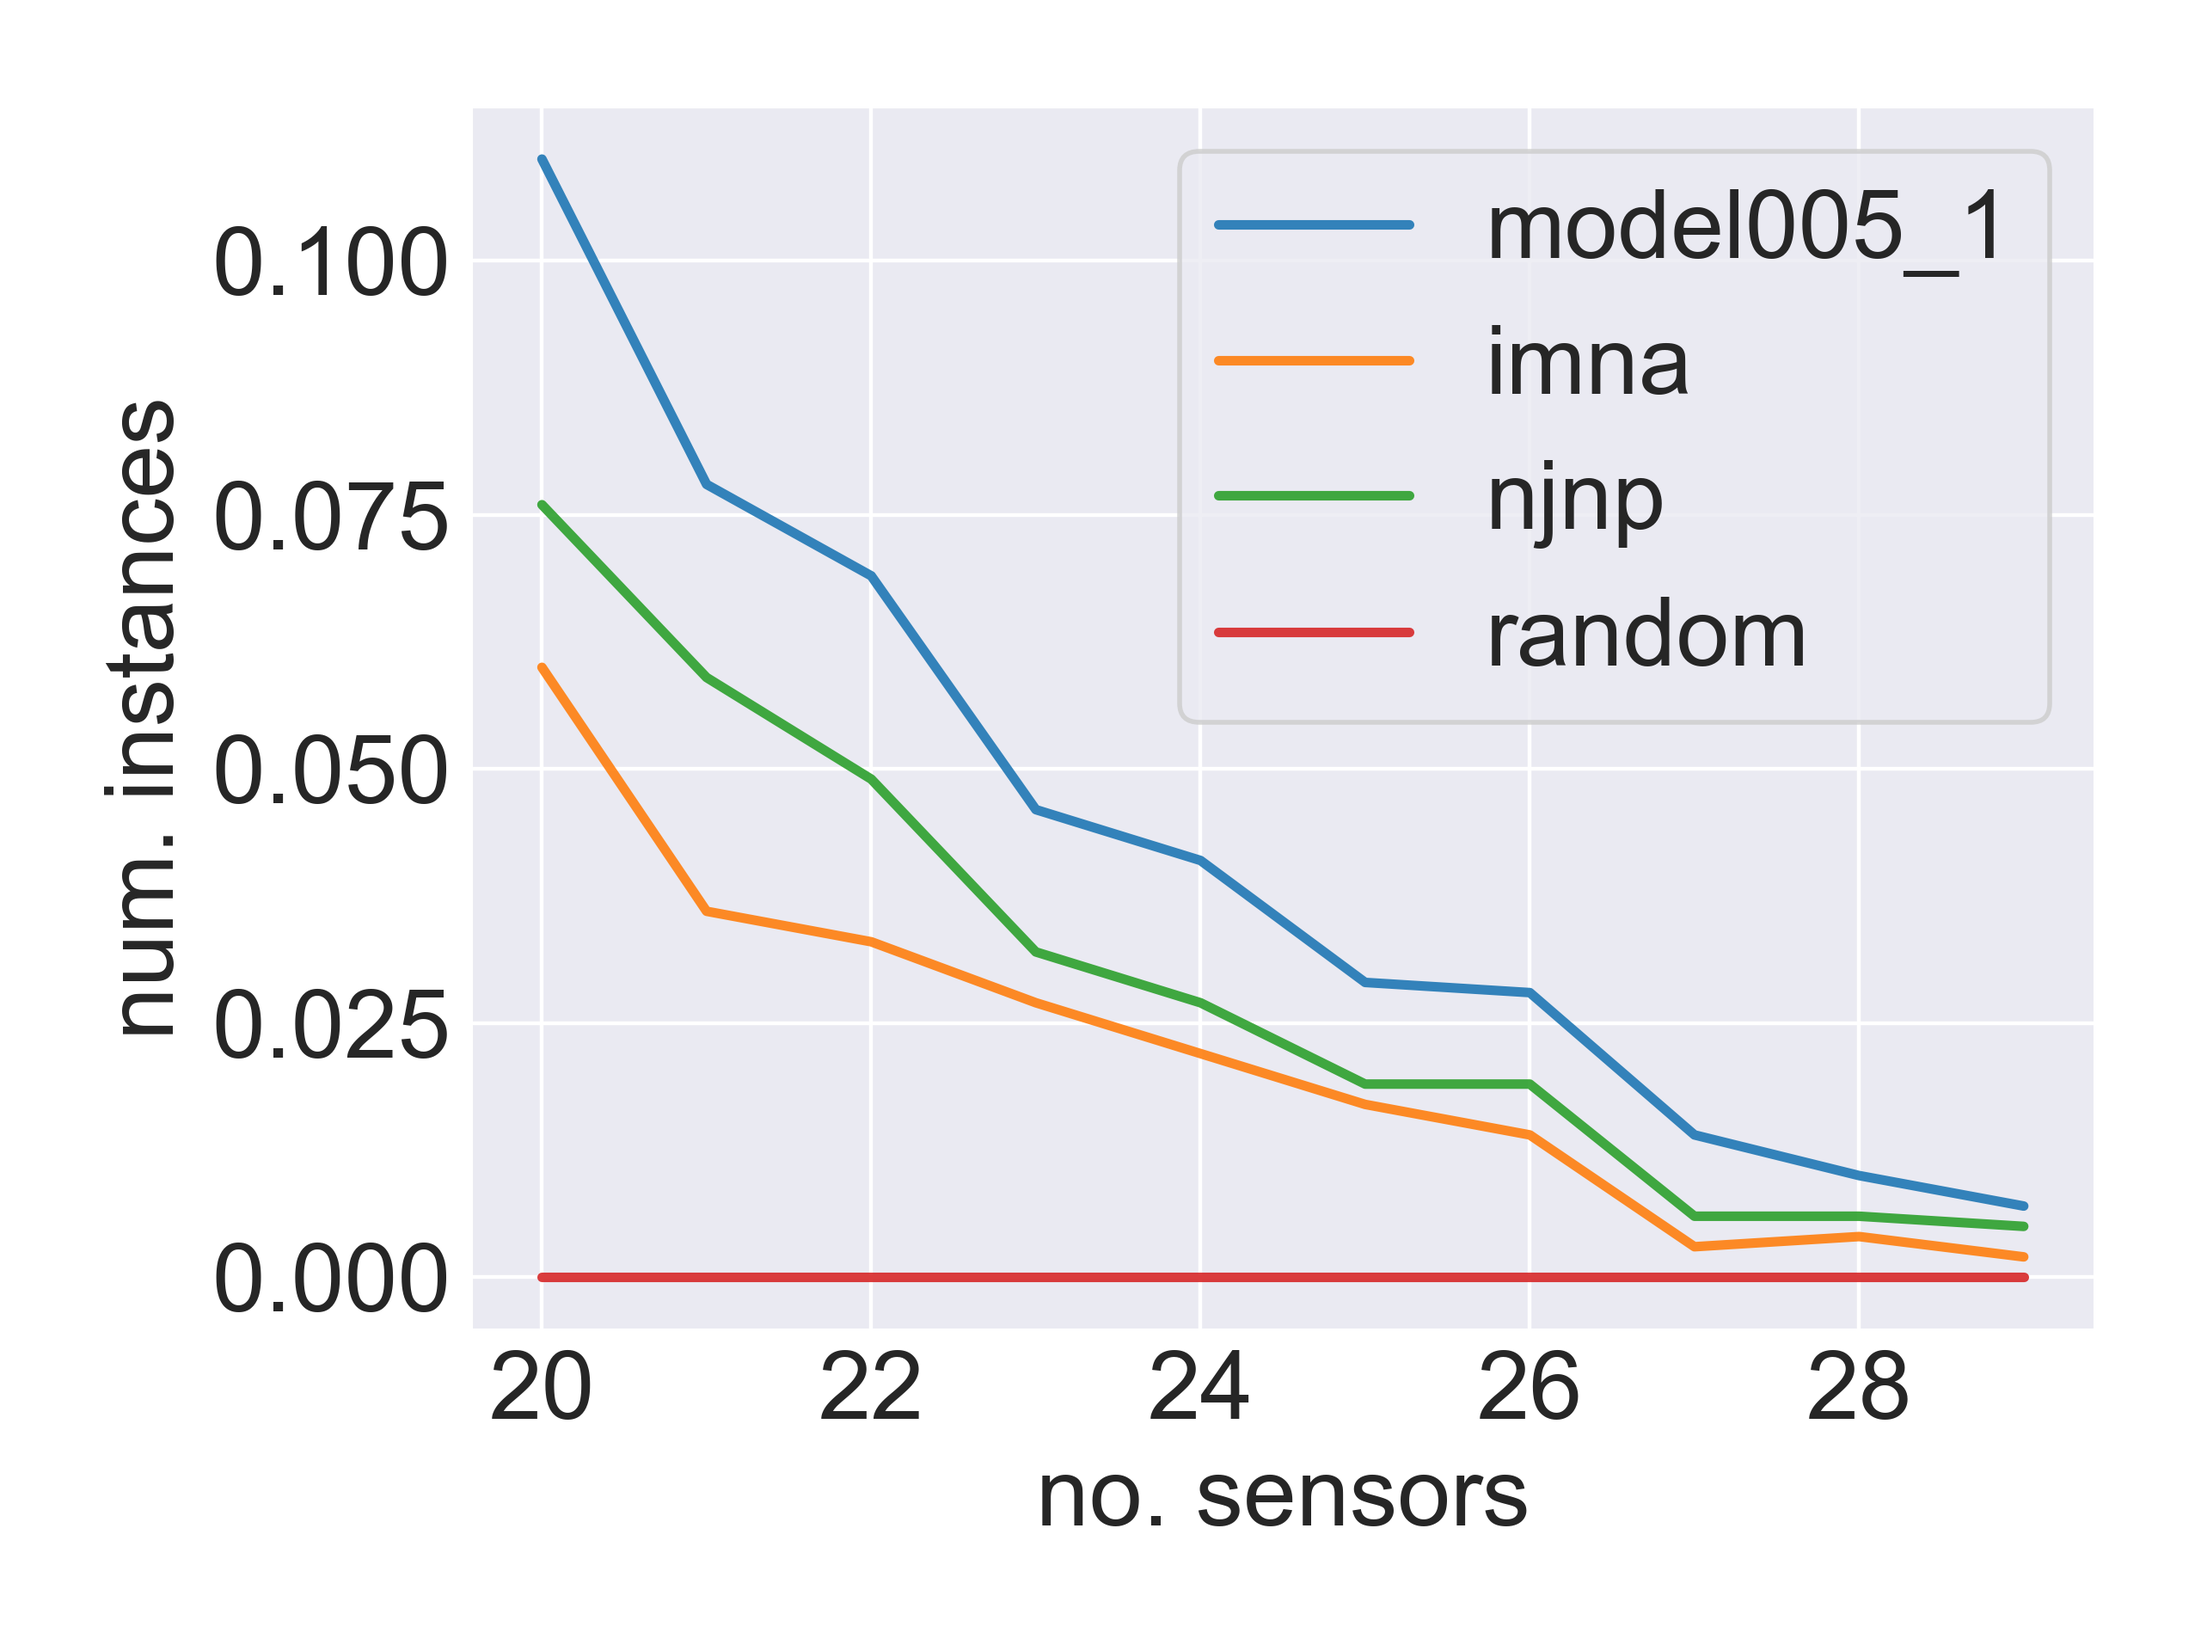
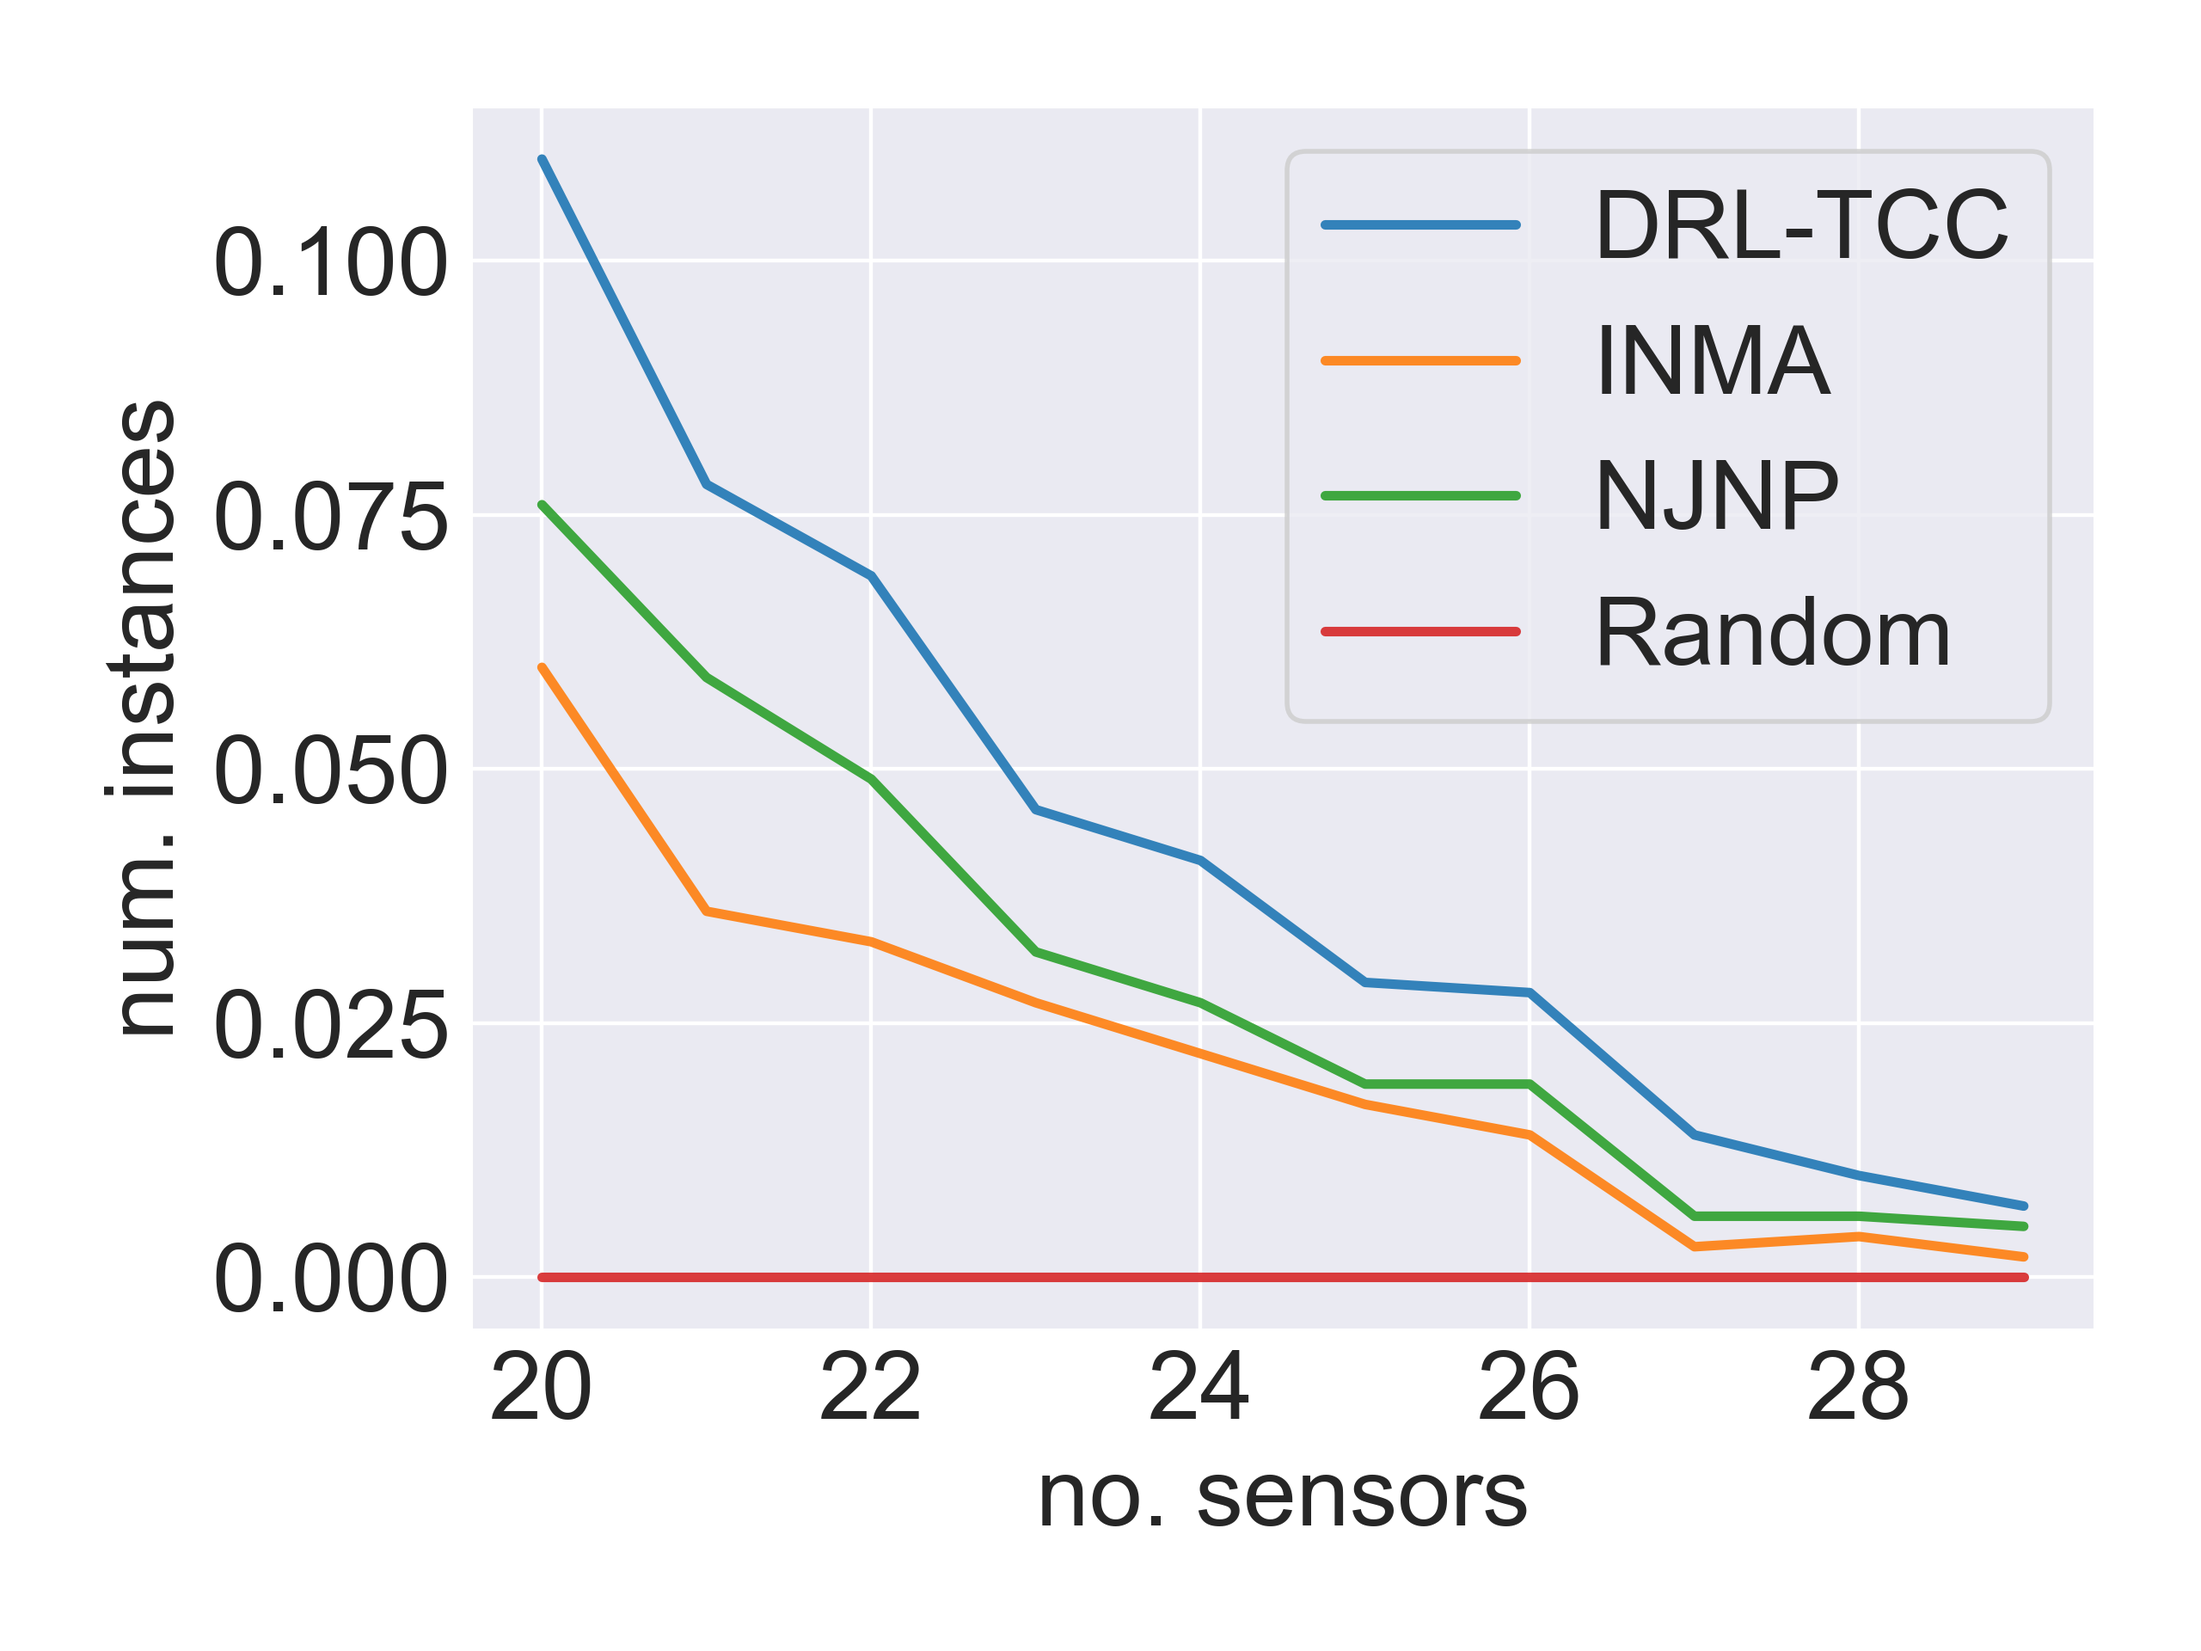
update label

diff --git a/run_ept_12.py b/run_ept_12.py
@@ -35,6 +35,14 @@ solvers = {
     "random": model005.run_random,
 }
 
+labels = {
+    "model005_1": "DRL-TCC",
+    "imna": "INMA",
+    "njnp": "NJNP",
+    "random": "Random",
+    "gsa": "GSA"
+}
+
 def smooth(y, box_pts):
     box = np.ones(box_pts)/box_pts
     y_smooth = np.convolve(y, box, mode='same')
@@ -49,7 +57,7 @@ def plot_mean_std(x, data, xlabel, ylabel, title, save_dir, plot_std=True,
     
     fig, ax = plt.subplots()
     for name, (mean, std) in data.items():
-        ax.plot(x, smooth(mean, smooth_k), label=name, alpha=0.9)
+        ax.plot(x, smooth(mean, smooth_k), label=labels[name], alpha=0.9)
         if plot_std:
             ax.fill_between(x, 
                             smooth(np.clip(mean - std, 0.0, np.inf), smooth_k), 
@@ -75,9 +83,7 @@ def plot_inf_data(x, data, xlabel, ylabel, title, save_dir):
     fig, ax = plt.subplots()
     i = 0
     for name, model_data in data.items():
-        print(name)
-        print(x, model_data)
-        ax.plot(x, model_data, label=name, zorder=10-i, alpha=0.9)
+        ax.plot(x, model_data, label=labels[name], zorder=10-i, alpha=0.9)
         i += 1
 
     ax.legend(frameon=True)
